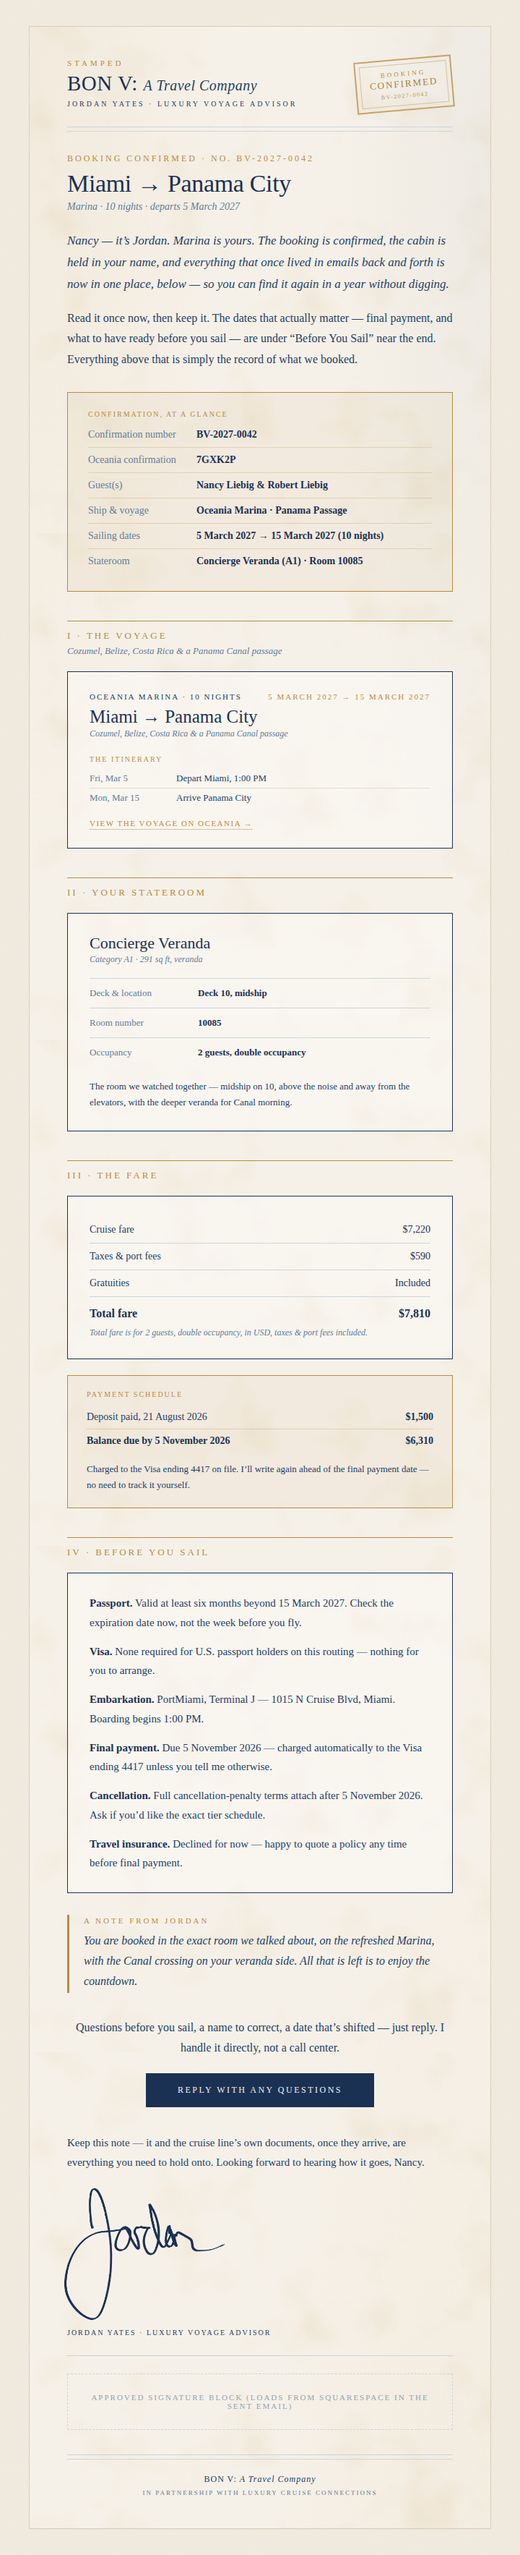
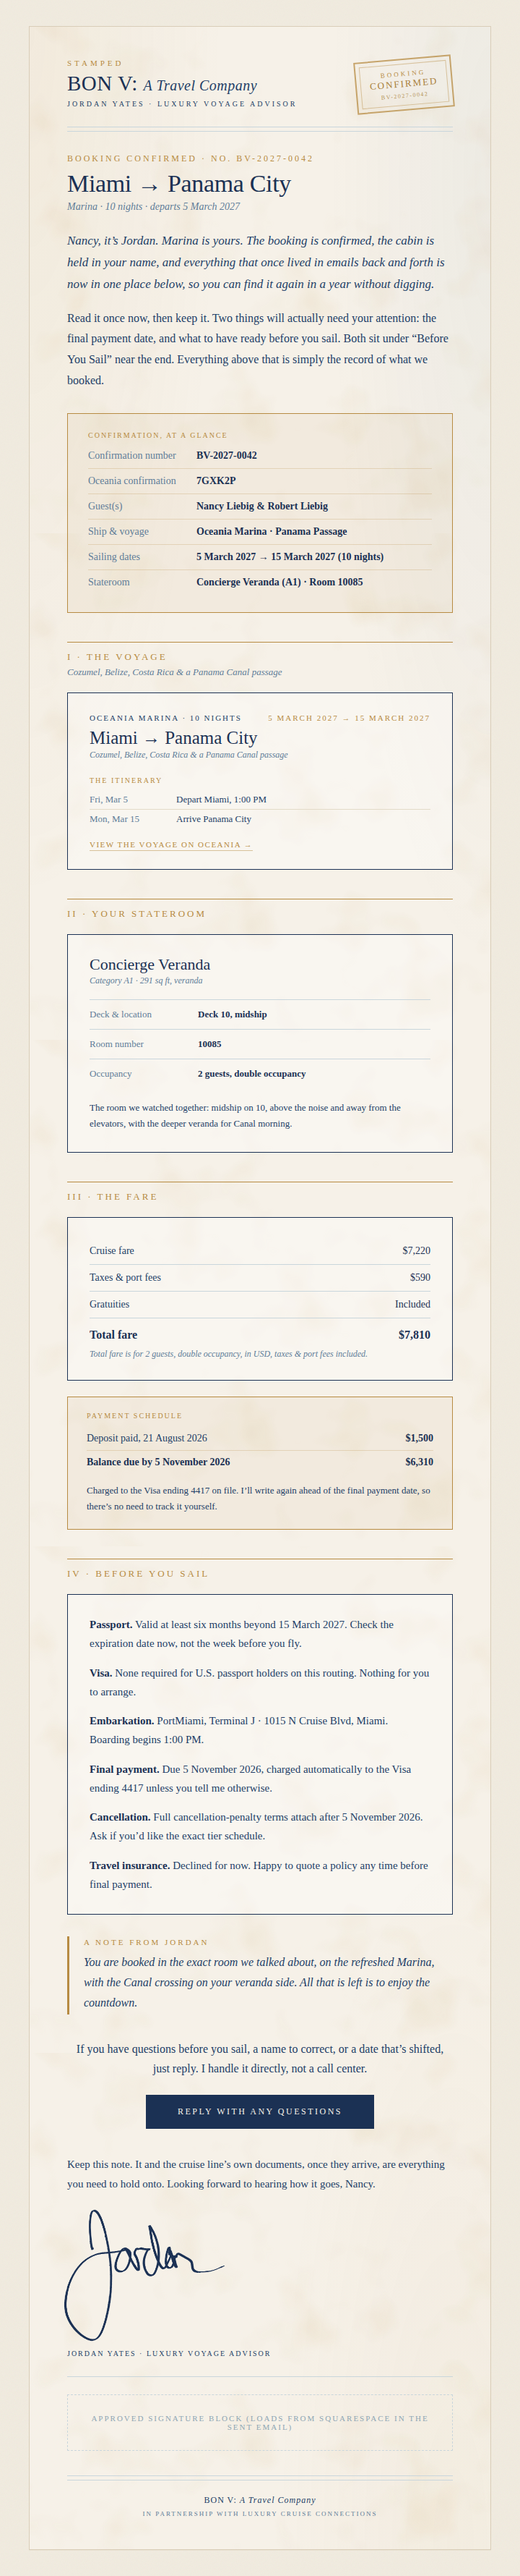
Drop em dashes from the confirmation template and gate them in the skill
House voice doesn't use em dashes, so the template is now free of them in
copy, preheader, title, alt text and comments. Each one was recast rather
than swapped for a comma: the vocative greeting takes a comma, joined
thoughts take a period, the payment-schedule aside takes a clause, and
the paired-dash parenthetical in the letter is rebuilt as a colon list,
since that construction is the one a mechanical swap mangles worst.

The skill gains a punctuation section with the four cases a dash usually
hides and the better form for each, and check.sh now fails on either the
entity or the literal character, so a slip cannot reach a client. Sample
data and the reference preview are regenerated to match.

diff --git a/emails/cruise-confirmation-template.html b/emails/cruise-confirmation-template.html
@@ -6,23 +6,26 @@
   fill every {{TOKEN}}, delete rows you don't need (extra itinerary days, the
   visa line, etc.), then delete this comment before sending.
 
-  This is a transactional record, not a Dispatch send — no {{unsubscribe_url}}
+  This is a transactional record, not a Dispatch send. No {{unsubscribe_url}}
   merge tag, no campaign UTMs. Double-check "Confirmation, at a Glance" and
   "The Fare" against the cruise line's own invoice; those two are what a guest
   will actually check numbers against.
 
   Fill rules:
-  - Use HTML entities in filled values (&mdash; &rsquo; &middot; &amp;), same
-    as all house email copy.
+  - No em dashes, anywhere. House voice uses a period, a semicolon, a colon,
+    or a recast sentence instead. The separator between short label phrases
+    is the middot (&middot;).
+  - Use HTML entities in filled values (&rsquo; &middot; &amp;), same as all
+    house email copy.
   - The mailto subject in the CTA is a URL: percent-encode filled values there
     (spaces become %20).
-  - {{GRATUITIES}} is free text — either "$430" (include the $) or "Included".
+  - {{GRATUITIES}} is free text, either "$430" (include the $) or "Included".
 -->
 <head>
 <meta charset="UTF-8">
 <meta name="viewport" content="width=device-width, initial-scale=1.0">
 <meta name="color-scheme" content="light">
-<title>Your Voyage, Confirmed — {{SHIP}}</title>
+<title>Your Voyage, Confirmed &middot; {{SHIP}}</title>
 <style>
   @import url('https://fonts.googleapis.com/css2?family=EB+Garamond:ital@0;1&display=swap');
   body { margin:0; padding:0; }
@@ -44,7 +47,7 @@
 </head>
 <body class="paper">
 <div style="display:none; max-height:0; overflow:hidden; opacity:0;">
-Your booking is confirmed — {{SHIP}}, departing {{EMBARK_DATE}}. Cabin, fare, and everything to have ready before you sail, below.
+Your booking is confirmed. {{SHIP}}, departing {{EMBARK_DATE}}. Cabin, fare, and everything to have ready before you sail, below.
 </div>
 
 <table role="presentation" width="100%" cellpadding="0" cellspacing="0" class="paper" style="background-color:#f1ebdf;">
@@ -90,10 +93,10 @@ Your booking is confirmed — {{SHIP}}, departing {{EMBARK_DATE}}. Cabin, fare, 
 <tr>
 <td class="serif" style="padding:24px 52px 0 52px;">
   <p style="margin:0 0 18px 0; font-size:17px; line-height:1.75; color:#223e67; font-style:italic;">
-    {{GUEST_NAME}} &mdash; it&rsquo;s Jordan. {{SHIP}} is yours. The booking is confirmed, the cabin is held in your name, and everything that once lived in emails back and forth is now in one place, below &mdash; so you can find it again in a year without digging.
+    {{GUEST_NAME}}, it&rsquo;s Jordan. {{SHIP}} is yours. The booking is confirmed, the cabin is held in your name, and everything that once lived in emails back and forth is now in one place below, so you can find it again in a year without digging.
   </p>
   <p style="margin:0; font-size:16px; line-height:1.8; color:#223e67;">
-    Read it once now, then keep it. The dates that actually matter &mdash; final payment, and what to have ready before you sail &mdash; are under &ldquo;Before You Sail&rdquo; near the end. Everything above that is simply the record of what we booked.
+    Read it once now, then keep it. Two things will actually need your attention: the final payment date, and what to have ready before you sail. Both sit under &ldquo;Before You Sail&rdquo; near the end. Everything above that is simply the record of what we booked.
   </p>
 </td>
 </tr>
@@ -135,7 +138,7 @@ Your booking is confirmed — {{SHIP}}, departing {{EMBARK_DATE}}. Cabin, fare, 
 </td>
 </tr>
 
-<!-- ============ SECTION I — THE VOYAGE ============ -->
+<!-- ============ SECTION I · THE VOYAGE ============ -->
 <tr>
 <td style="padding:40px 52px 0 52px;">
   <div style="border-top:1px solid #b78b42; padding-top:12px;">
@@ -156,7 +159,7 @@ Your booking is confirmed — {{SHIP}}, departing {{EMBARK_DATE}}. Cabin, fare, 
     <h2 class="serif" style="margin:8px 0 0 0; font-size:25px; color:#1b3154; font-weight:normal;">{{EMBARK_PORT}} &rarr; {{DISEMBARK_PORT}}</h2>
     <p class="serif" style="margin:2px 0 0 0; font-size:12px; font-style:italic; color:#607d99;">{{VOYAGE_SUBTITLE}}</p>
 
-    <!-- itinerary — duplicate the row below per day, delete these two examples -->
+    <!-- itinerary: duplicate the row below per day, delete these two examples -->
     <p class="serif" style="margin:22px 0 0 0; font-size:10px; letter-spacing:2px; text-transform:uppercase; color:#b78b42;">The Itinerary</p>
     <table role="presentation" width="100%" cellpadding="0" cellspacing="0" class="serif" style="margin-top:8px; font-size:13px; color:#223e67;">
       <tr><td style="padding:5px 0; border-bottom:1px solid #e3dbc8; color:#607d99; width:120px;">{{DAY_1_DATE}}</td><td style="padding:5px 0; border-bottom:1px solid #e3dbc8;">Depart {{EMBARK_PORT}}, {{BOARDING_TIME}}</td></tr>
@@ -168,7 +171,7 @@ Your booking is confirmed — {{SHIP}}, departing {{EMBARK_DATE}}. Cabin, fare, 
 </td>
 </tr>
 
-<!-- ============ SECTION II — YOUR STATEROOM ============ -->
+<!-- ============ SECTION II · YOUR STATEROOM ============ -->
 <tr>
 <td style="padding:40px 52px 0 52px;">
   <div style="border-top:1px solid #b78b42; padding-top:12px;">
@@ -203,7 +206,7 @@ Your booking is confirmed — {{SHIP}}, departing {{EMBARK_DATE}}. Cabin, fare, 
 </td>
 </tr>
 
-<!-- ============ SECTION III — THE FARE ============ -->
+<!-- ============ SECTION III · THE FARE ============ -->
 <tr>
 <td style="padding:40px 52px 0 52px;">
   <div style="border-top:1px solid #b78b42; padding-top:12px;">
@@ -256,13 +259,13 @@ Your booking is confirmed — {{SHIP}}, departing {{EMBARK_DATE}}. Cabin, fare, 
         <td align="right" style="padding:8px 0; color:#1b3154; font-weight:bold; border-top:1px solid rgba(183,139,66,0.25);">${{BALANCE_DUE}}</td>
       </tr>
     </table>
-    <p class="serif" style="margin:12px 0 0 0; font-size:13px; line-height:1.7; color:#223e67;">Charged to {{PAYMENT_METHOD}} on file. I&rsquo;ll write again ahead of the final payment date &mdash; no need to track it yourself.</p>
+    <p class="serif" style="margin:12px 0 0 0; font-size:13px; line-height:1.7; color:#223e67;">Charged to {{PAYMENT_METHOD}} on file. I&rsquo;ll write again ahead of the final payment date, so there&rsquo;s no need to track it yourself.</p>
   </td></tr>
   </table>
 </td>
 </tr>
 
-<!-- ============ SECTION IV — BEFORE YOU SAIL ============ -->
+<!-- ============ SECTION IV · BEFORE YOU SAIL ============ -->
 <tr>
 <td style="padding:40px 52px 0 52px;">
   <div style="border-top:1px solid #b78b42; padding-top:12px;">
@@ -278,7 +281,7 @@ Your booking is confirmed — {{SHIP}}, departing {{EMBARK_DATE}}. Cabin, fare, 
     <p class="serif" style="margin:0 0 14px 0; font-size:15px; line-height:1.75; color:#223e67;"><strong style="color:#1b3154;">Passport.</strong> Valid {{PASSPORT_REQUIREMENT}}. Check the expiration date now, not the week before you fly.</p>
     <p class="serif" style="margin:0 0 14px 0; font-size:15px; line-height:1.75; color:#223e67;"><strong style="color:#1b3154;">Visa.</strong> {{VISA_NOTE}}</p>
     <p class="serif" style="margin:0 0 14px 0; font-size:15px; line-height:1.75; color:#223e67;"><strong style="color:#1b3154;">Embarkation.</strong> {{EMBARKATION_TERMINAL_ADDRESS}}. Boarding begins {{BOARDING_TIME}}.</p>
-    <p class="serif" style="margin:0 0 14px 0; font-size:15px; line-height:1.75; color:#223e67;"><strong style="color:#1b3154;">Final payment.</strong> Due {{FINAL_PAYMENT_DATE}} &mdash; charged automatically to {{PAYMENT_METHOD}} unless you tell me otherwise.</p>
+    <p class="serif" style="margin:0 0 14px 0; font-size:15px; line-height:1.75; color:#223e67;"><strong style="color:#1b3154;">Final payment.</strong> Due {{FINAL_PAYMENT_DATE}}, charged automatically to {{PAYMENT_METHOD}} unless you tell me otherwise.</p>
     <p class="serif" style="margin:0 0 14px 0; font-size:15px; line-height:1.75; color:#223e67;"><strong style="color:#1b3154;">Cancellation.</strong> Full cancellation-penalty terms attach after {{CANCELLATION_DEADLINE}}. Ask if you&rsquo;d like the exact tier schedule.</p>
     <p class="serif" style="margin:0; font-size:15px; line-height:1.75; color:#223e67;"><strong style="color:#1b3154;">Travel insurance.</strong> {{TRAVEL_INSURANCE_STATUS}}</p>
   </td></tr>
@@ -304,7 +307,7 @@ Your booking is confirmed — {{SHIP}}, departing {{EMBARK_DATE}}. Cabin, fare, 
 <!-- ============ CTA ============ -->
 <tr>
 <td style="padding:34px 52px 0 52px; text-align:center;">
-  <p class="serif" style="margin:0 0 22px 0; font-size:16px; line-height:1.7; color:#223e67;">Questions before you sail, a name to correct, a date that&rsquo;s shifted &mdash; just reply. I handle it directly, not a call center.</p>
+  <p class="serif" style="margin:0 0 22px 0; font-size:16px; line-height:1.7; color:#223e67;">If you have questions before you sail, a name to correct, or a date that&rsquo;s shifted, just reply. I handle it directly, not a call center.</p>
   <a href="mailto:jordan.yates@luxurycruiseconnections.com?subject=Booking%20{{CONFIRMATION_NUMBER}}%20%E2%80%94%20{{SHIP}}" class="serif" style="display:inline-block; background-color:#1b3154; color:#f6f1e8; text-decoration:none; padding:16px 44px; font-size:12px; letter-spacing:2.5px; text-transform:uppercase;">Reply With Any Questions</a>
 </td>
 </tr>
@@ -312,7 +315,7 @@ Your booking is confirmed — {{SHIP}}, departing {{EMBARK_DATE}}. Cabin, fare, 
 <!-- ============ SIGN-OFF ============ -->
 <tr>
 <td style="padding:36px 52px 0 52px;">
-  <p class="serif" style="margin:0; font-size:15px; line-height:1.8; color:#223e67;">Keep this note &mdash; it and the cruise line&rsquo;s own documents, once they arrive, are everything you need to hold onto. Looking forward to hearing how it goes, {{GUEST_NAME}}.</p>
+  <p class="serif" style="margin:0; font-size:15px; line-height:1.8; color:#223e67;">Keep this note. It and the cruise line&rsquo;s own documents, once they arrive, are everything you need to hold onto. Looking forward to hearing how it goes, {{GUEST_NAME}}.</p>
   <img src="https://www.bonvtravelcompany.com/internal/jordan-signature.png" alt="Jordan" width="230" style="display:block; width:230px; height:auto; margin:18px 0 0 -8px;">
   <p class="serif" style="margin:8px 0 0 0; font-size:10px; letter-spacing:2px; text-transform:uppercase; color:#223e67;">Jordan Yates &middot; Luxury Voyage Advisor</p>
 </td>
@@ -323,7 +326,7 @@ Your booking is confirmed — {{SHIP}}, departing {{EMBARK_DATE}}. Cabin, fare, 
 <td style="padding:26px 52px 8px 52px;">
   <div style="border-top:1px solid #c9d6dc; padding-top:24px;">
     <img src="https://images.squarespace-cdn.com/content/v1/5cfd848d3b35680001da3f7d/9c23922a-987b-4532-830c-6e5415363a97/Background+removed+Signature_Block_Photo_July_13_with_LCC_website-removebg.png?format=2500w"
-         alt="Jordan Yates &middot; Luxury Travel Advisor — contact information"
+         alt="Jordan Yates &middot; Luxury Travel Advisor &middot; contact information"
          width="536" style="display:block; width:100%; max-width:536px; height:auto; margin:0 auto;">
   </div>
 </td>

diff --git a/.claude/skills/cruise-confirmation/SKILL.md b/.claude/skills/cruise-confirmation/SKILL.md
@@ -7,7 +7,7 @@ description: Produce a client cruise booking confirmation email from the house t
 
 The house way to confirm a booking in writing. One template is the source of
 truth; every confirmation is a filled copy of it. Never draft a confirmation
-from scratch — a client's confirmation and their Dispatch letters must read as
+from scratch. A client's confirmation and their Dispatch letters must read as
 one publishing house, and the template already encodes the brand system.
 
 ## The one-page version
@@ -20,21 +20,55 @@ one publishing house, and the template already encodes the brand system.
 3. Run the checker:
    `bash .claude/skills/cruise-confirmation/scripts/check.sh emails/confirmation-<file>.html`
 4. Render it and look at it (see Verification below) before handing it over.
-5. Deliver the HTML file to Jordan. **Never send it to the client yourself** —
+5. Deliver the HTML file to Jordan. **Never send it to the client yourself**,
    even if email-sending tools are connected. A confirmation goes to a real
    client about real money; Jordan presses send.
 
 The target look is `emails/previews/cruise-confirmation-template-sample.png`.
 If your filled version doesn't resemble it, something went wrong.
 
+## Punctuation: no em dashes
+
+House voice does not use em dashes. Not in the template, not in filled values,
+not in the personal note. This is a firm preference, and it is the single
+easiest way for a draft to read as machine-written rather than as Jordan.
+
+Removing them well means recasting the sentence, not swapping the dash for a
+comma and moving on. A dash usually hides one of four things, and each has a
+better form:
+
+| The dash was doing | Use instead |
+|---|---|
+| Joining two complete thoughts | A period. Two sentences. |
+| Setting off a parenthetical | Commas, or lift it into its own sentence |
+| Introducing a list or explanation | A colon |
+| Separating short label phrases | The middot (`&middot;`), the house separator |
+
+Examples of the recast, all from this template's own history:
+
+- Before: `Nancy — it's Jordan.` After: `Nancy, it's Jordan.`
+- Before: `Keep this note — it and the cruise line's own documents are everything you need.`
+  After: `Keep this note. It and the cruise line's own documents are everything you need.`
+- Before: `Due 5 November — charged automatically to the Visa on file.`
+  After: `Due 5 November, charged automatically to the Visa on file.`
+- Before: `The dates that actually matter — final payment, and what to have ready — are near the end.`
+  After: `Two things will actually need your attention: the final payment date, and what to have ready before you sail.`
+
+Note the last one. The paired-dash parenthetical is the case where a mechanical
+swap fails worst, because the sentence was built around the interruption. Rebuild
+the sentence instead.
+
+Watch for both the HTML entity (`&mdash;`) and the literal character. `check.sh`
+fails on either, so a slip cannot reach a client.
+
 ## Where the numbers come from
 
-Every figure — fares, deposit, balance, dates, room number, confirmation
-numbers — comes from Jordan or from the internal quote log (the curation desk
-at `/internal/quotes`, or a voyage dossier export). **Never estimate, never
+Every figure (fares, deposit, balance, dates, room number, confirmation
+numbers) comes from Jordan or from the internal quote log: the curation desk
+at `/internal/quotes`, or a voyage dossier export. **Never estimate, never
 fill a gap with a plausible number.** A confirmation is the client's permanent
-record; a guessed fare becomes a dispute, and a guessed final-payment date
-becomes a missed one. If a number is missing, stop and ask for it — a stalled
+record. A guessed fare becomes a dispute, and a guessed final-payment date
+becomes a missed one. If a number is missing, stop and ask for it. A stalled
 draft is better than a wrong one.
 
 Arithmetic must close: cruise fare + taxes & fees (+ gratuities if a dollar
@@ -46,18 +80,18 @@ the checker script cannot, because gratuities may be "Included".
 The template's header comment carries the mechanical rules; they matter enough
 to repeat:
 
-- Use HTML entities in filled copy (`&mdash;` `&rsquo;` `&middot;` `&amp;`) —
-  every house email does, and mixed literal/entity text is how encoding bugs
-  slip into clients' inboxes.
-- The CTA `mailto:` subject is a URL — percent-encode filled values there
+- Use HTML entities in filled copy (`&rsquo;` `&middot;` `&amp;`). Every house
+  email does, and mixed literal/entity text is how encoding bugs slip into
+  clients' inboxes.
+- The CTA `mailto:` subject is a URL, so percent-encode filled values there
   (spaces become `%20`).
 - `{{GRATUITIES}}` is free text: either `$430` (include the `$`) or `Included`.
-- Itinerary: duplicate the day-row pattern once per day; sea days are
-  italicized "At sea"; include times where known (departure and arrival at
-  minimum).
-- Rows that don't apply get deleted, not filled with "N/A" — a printed letter
+- Itinerary: duplicate the day-row pattern once per day. Sea days are
+  italicized "At sea". Include times where known, departure and arrival at
+  minimum.
+- Rows that don't apply get deleted, not filled with "N/A". A printed letter
   has no empty fields. The visa line, for instance, stays only when there's
-  something to say (and "nothing to arrange" is something to say).
+  something to say, and "nothing to arrange" is something to say.
 - Optional extras (loyalty number, dining reservations, transfers, air) may be
   added as rows in "Confirmation, at a Glance" or bullets in "Before You
   Sail", following the existing row markup exactly.
@@ -67,26 +101,26 @@ to repeat:
 
 A confirmation is a receipt written by an advisor, not a pitch. Reassuring,
 calm, specific; zero selling. The "A Note From Jordan" block is the one
-personal moment — one or two sentences about *their* room, *their* route.
-Write it fresh for each client from what Jordan has said about the booking;
-never reuse another client's note.
+personal moment, one or two sentences about *their* room, *their* route. Write
+it fresh for each client from what Jordan has said about the booking. Never
+reuse another client's note.
 
 Transactional means:
 
 - **No unsubscribe merge tag.** Confirmations are transactional mail; only the
   Dispatch carries `{{unsubscribe_url}}`.
 - **No UTM parameters on any link.** Campaign attribution feeds the marketing
-  leaderboard; a confirmation click polluting that data is a bug. Links go
+  leaderboard, so a confirmation click polluting that data is a bug. Links go
   bare to the official cruise-line voyage page.
 - The stamp in the masthead stays **typographic** (the bordered, rotated text
-  block) — never an image of a ship, anchor, or palm tree.
+  block). Never an image of a ship, anchor, or palm tree.
 
 ## Brand guardrails
 
 These are publish gates, not preferences:
 
-- The phrase "The Aegean Passport" must never appear — it is the Brand
-  Bible's internal working name, not a brand. Public identity is
+- The phrase "The Aegean Passport" must never appear. It is the Brand Bible's
+  internal working name, not a brand. Public identity is
   **BON V: A Travel Company** / **Jordan Yates · Luxury Voyage Advisor**.
 - Email HTML can't read CSS variables from `globals.css`, so the site's tokens
   are baked in as hex. Use only these, and keep them in sync with
@@ -94,35 +128,36 @@ These are publish gates, not preferences:
   - `#1b3154` deep harbor (headings, strong figures, CTA button)
   - `#223e67` aegean ink (body text)
   - `#607d99` sun-faded (labels, muted notes)
-  - `#b78b42` compass gold (section labels, rules, stamp) — flat, never a
+  - `#b78b42` compass gold (section labels, rules, stamp), flat, never a
     gradient or metallic effect
   - `#a97f39` darker gold (fine gold text)
   - `#f6f1e8` / `#f1ebdf` paper surfaces, `#c9d6dc` hairlines, `#d9cdb8` frame
-- EB Garamond via the existing `@import`, with Georgia fallback — Gmail strips
+- EB Garamond via the existing `@import`, with Georgia fallback. Gmail strips
   the import and falls back; that's expected and fine.
-- 640px table layout, `role="presentation"`, inline styles — exactly as the
+- 640px table layout, `role="presentation"`, inline styles, exactly as the
   template has it. No dark-mode styles; paper doesn't invert.
 - The approved signature block image (Squarespace URL) and the script
-  signature (`/internal/jordan-signature.png`) stay as-is; both are live
+  signature (`/internal/jordan-signature.png`) stay as-is. Both are live
   production assets.
 
 ## Verification before handing over
 
-1. `bash .claude/skills/cruise-confirmation/scripts/check.sh <file>` — catches
-   leftover tokens, banned strings, unbalanced tags, UTM/unsubscribe leaks.
+1. `bash .claude/skills/cruise-confirmation/scripts/check.sh <file>` catches
+   leftover tokens, em dashes, banned strings, unbalanced tags, and
+   UTM/unsubscribe leaks.
 2. Verify the arithmetic (see above) and compare every figure against the
-   source Jordan gave — read them back in your summary so he can eyeball them.
-3. Render and look: fill-file → screenshot via Playwright
+   source Jordan gave. Read them back in your summary so he can eyeball them.
+3. Render and look: fill the file, then screenshot via Playwright
    (`executablePath: '/opt/pw-browsers/chromium'` in remote sessions) at
    ~720px wide, and compare against
    `emails/previews/cruise-confirmation-template-sample.png`. The two remote
-   signature images 404 offline — that's the sandbox, not a bug.
+   signature images 404 offline; that's the sandbox, not a bug.
 4. Confirm the header instructional comment is gone.
 
 ## Changing the template itself
 
 Improvements to structure, copy, or style go into
-`emails/cruise-confirmation-template.html` — never forked quietly inside one
+`emails/cruise-confirmation-template.html`, never forked quietly inside one
 client's confirmation, or the next confirmation regresses. After a template
 change, re-render `emails/previews/cruise-confirmation-template-sample.png`
 with sample data and update this skill if a rule changed.
